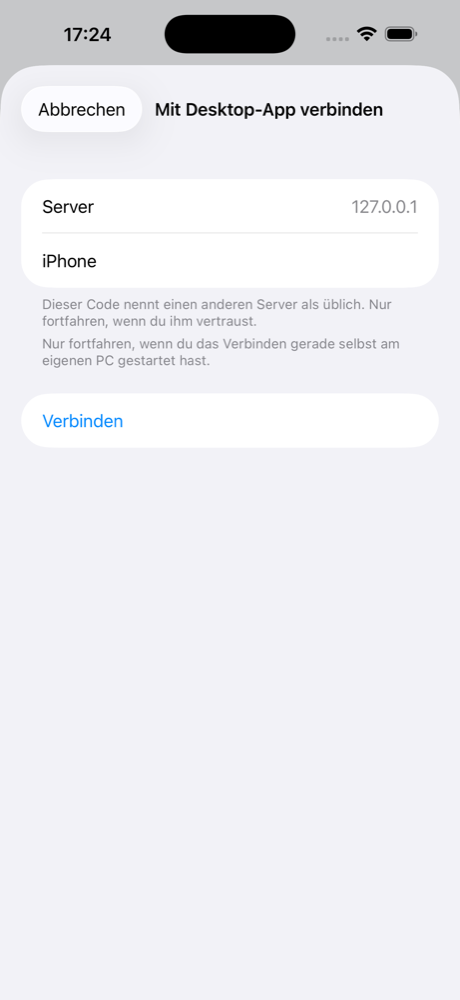
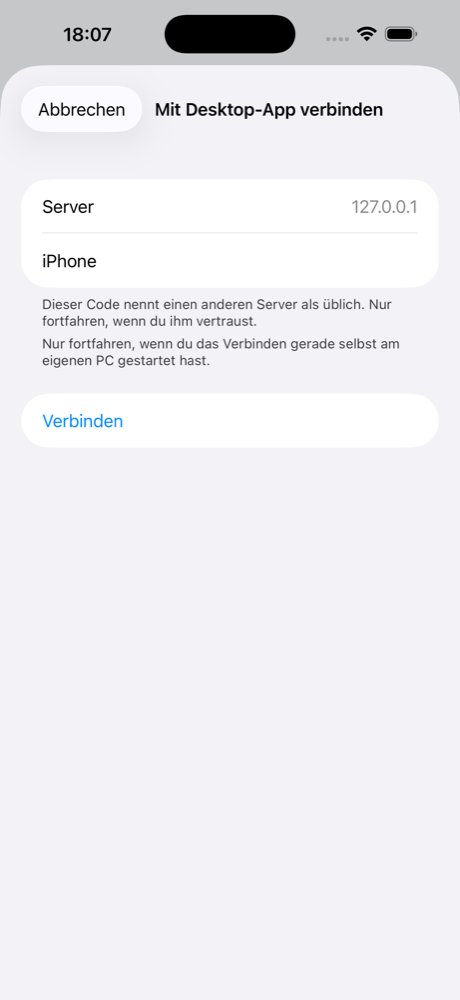
fix(ios): Kopplung: Frist gilt bis zur Übernahme, Umleitung im Hintergrund erkennen
Die Kontofrage läuft jetzt vor der letzten Fristprüfung. Hintergrund-Sessions
fragen bei Umleitungen nicht nach, deshalb verwirft AudioDownloads Ergebnisse von
einer fremden Herkunft. Ablauf der Frist meldet immer abgelaufen.

diff --git a/apps/apple/VoiceCore/Sources/VoiceCore/Pairing.swift b/apps/apple/VoiceCore/Sources/VoiceCore/Pairing.swift
@@ -10,7 +10,7 @@ import CryptoKit
 public enum PairingError: LocalizedError, Equatable {
     case invalidCode, outdatedCode, insecureHub
     case expired, rejected, nonceChanged, commitmentFailed, nameRejected
-    case badResponse, openFailed, keyMismatch, offline, timedOut, declined, tooManyAttempts, serverFailed
+    case badResponse, openFailed, keyMismatch, offline, declined, tooManyAttempts, serverFailed
     case adoptFailed(String)
 
     public var errorDescription: String? {
@@ -27,7 +27,6 @@ public enum PairingError: LocalizedError, Equatable {
         case .openFailed: return "Der Schlüssel vom PC ließ sich nicht öffnen. Am PC dieses Gerät abmelden und neu beginnen."
         case .keyMismatch: return "Der Schlüssel vom PC passt nicht zum Konto. Am PC dieses Gerät abmelden und neu beginnen."
         case .offline: return "Keine Verbindung zum Server. Bitte am PC einen neuen Code anzeigen."
-        case .timedOut: return "Der PC hat nicht rechtzeitig geantwortet. Bitte neu beginnen."
         case .declined: return "Kopplung abgebrochen."
         case .tooManyAttempts: return "Zu viele Versuche aus diesem Netz. Bitte in einer Viertelstunde erneut versuchen."
         case .serverFailed: return "Der Server hat gerade ein Problem. Bitte gleich am PC einen neuen Code anzeigen."
@@ -276,10 +275,12 @@ public struct PairingSession: Sendable {
         self.now = now
     }
 
+    /// `approve` darf nach dem Öffnen noch nachfragen; danach gilt die Frist erneut.
     /// `adopt` speichert das Konto. Erst danach geht die Bestätigung an den Hub.
     /// Rückgabe: ob die Bestätigung sicher angekommen ist. Sonst ist sie unklar, das Konto steht trotzdem.
     @discardableResult
     public func run(stage: @escaping @Sendable (PairingStage) async -> Void,
+                    approve: @Sendable (PairedAccount) async -> Bool = { _ in true },
                     adopt: @Sendable (PairedAccount) async throws -> Void) async throws -> Bool {
         defer { code.q.wipe() }  // bei Erfolg, Fehler und Abbruch
         let phonePublic = [UInt8](phoneKey.publicKey.rawRepresentation)
@@ -290,7 +291,6 @@ public struct PairingSession: Sendable {
 
         var desktopNonce: [UInt8]?
         var revealTries = 0
-        var lostContact = false
         let started = now()
         let deadline = min(expires, started.addingTimeInterval(Self.maxSeconds))
         func wait() async throws {
@@ -306,11 +306,9 @@ public struct PairingSession: Sendable {
             } catch is CancellationError {
                 throw CancellationError()
             } catch {
-                lostContact = true
                 try await wait()
                 continue
             }
-            lostContact = false
             switch answer.0 {
             case 200:
                 guard let json = (try? JSONSerialization.jsonObject(with: answer.1)) as? [String: Any],
@@ -332,7 +330,7 @@ public struct PairingSession: Sendable {
                     guard revealTries > 0 else { throw PairingError.badResponse }
                     guard now() <= deadline else { throw PairingError.expired }
                     await stage(.opening)
-                    return try await finish(json, phonePublic: phonePublic, poll: poll, adopt: adopt)
+                    return try await finish(json, phonePublic: phonePublic, poll: poll, deadline: deadline, approve: approve, adopt: adopt)
                 case "waiting":
                     break
                 default:
@@ -351,7 +349,7 @@ public struct PairingSession: Sendable {
             }
             try await wait()
         }
-        throw lostContact ? PairingError.offline : PairingError.timedOut
+        throw PairingError.expired
     }
 
     private func claim(_ phonePublic: [UInt8]) async throws -> (poll: String, expires: Date) {
@@ -408,7 +406,8 @@ public struct PairingSession: Sendable {
         }
     }
 
-    private func finish(_ json: [String: Any], phonePublic: [UInt8], poll: String,
+    private func finish(_ json: [String: Any], phonePublic: [UInt8], poll: String, deadline: Date,
+                        approve: @Sendable (PairedAccount) async -> Bool,
                         adopt: @Sendable (PairedAccount) async throws -> Void) async throws -> Bool {
         guard let token = json["token"] as? String, !token.isEmpty, let sealed = json["sealed"] as? String,
               let user = json["user"] as? [String: Any], let userId = (user["id"] as? NSNumber)?.int64Value,
@@ -431,7 +430,11 @@ public struct PairingSession: Sendable {
               payload.email.caseInsensitiveCompare(hubEmail) == .orderedSame else { throw PairingError.keyMismatch }
 
         try Task.checkCancellation()
-        try await adopt(PairedAccount(hub: code.hub, email: hubEmail, userId: userId, token: token, key: key, deviceName: name))
+        let account = PairedAccount(hub: code.hub, email: hubEmail, userId: userId, token: token, key: key, deviceName: name)
+        guard await approve(account) else { throw PairingError.declined }
+        try Task.checkCancellation()
+        guard now() <= deadline else { throw PairingError.expired }
+        try await adopt(account)
 
         // Das Konto steht: Die Bestätigung geht auch raus, wenn die Oberfläche inzwischen weg ist.
         let tag = PairingProto.b64u(PairingProto.confirm(s: s, id: code.id))

diff --git a/apps/apple/iPhone/Library/PairingFlow.swift b/apps/apple/iPhone/Library/PairingFlow.swift
@@ -125,10 +125,13 @@ final class PairingFlow: ObservableObject {
             do {
                 let confirmed = try await session.run(stage: { stage in
                     await MainActor.run { self?.show(stage, run) }
+                }, approve: { paired in
+                    await self?.approve(paired, ask: ask, run: run) ?? false
                 }, adopt: { paired in
-                    guard let self else { throw PairingError.declined }
-                    try await self.adopt(paired, ask: ask, run: run)
-                    await MainActor.run { email = paired.email }
+                    try await MainActor.run {
+                        try LibrarySync.shared.adopt(paired)
+                        email = paired.email
+                    }
                 })
                 if self?.generation == run { self?.phase = .done(email: email, confirmed: confirmed) }
             } catch is CancellationError {
@@ -143,15 +146,14 @@ final class PairingFlow: ObservableObject {
         if generation == run { phase = .running(stage) }
     }
 
-    private func adopt(_ paired: PairedAccount, ask: Bool, run: Int) async throws {
-        guard generation == run else { throw CancellationError() }
-        if ask && !autoAccept {
-            phase = .confirmAccount(paired.email)
-            let accepted = await withCheckedContinuation { decision = $0 }
-            guard accepted, generation == run else { throw PairingError.declined }
-            phase = .running(.opening)
-        }
-        try LibrarySync.shared.adopt(paired)
+    private func approve(_ paired: PairedAccount, ask: Bool, run: Int) async -> Bool {
+        guard generation == run else { return false }
+        guard ask && !autoAccept else { return true }
+        phase = .confirmAccount(paired.email)
+        let accepted = await withCheckedContinuation { decision = $0 }
+        guard accepted, generation == run else { return false }
+        phase = .running(.opening)
+        return true
     }
 
     func decide(_ accepted: Bool) {
@@ -251,7 +253,7 @@ private struct PairingSheet: View {
                 VStack(alignment: .leading, spacing: 6) {
                     if code.hub != LibrarySync.defaultHub { Text("Dieser Code nennt einen anderen Server als üblich. Nur fortfahren, wenn du ihm vertraust.") }
                     if viaLink { Text("Nur fortfahren, wenn du das Verbinden gerade selbst am eigenen PC gestartet hast.") }
-                }
+                }.foregroundStyle(.primary.opacity(0.75))
             }
             Section { Button("Verbinden") { flow.begin(code, viaLink: viaLink) } }
         }
@@ -267,7 +269,7 @@ private struct PairingSheet: View {
                     .accessibilityLabel(sas.map(String.init).joined(separator: " "))
                 Text("Steht derselbe Code am PC? Dann dort bestätigen. Wenn nicht, am PC abbrechen.")
                     .multilineTextAlignment(.center).foregroundStyle(.primary.opacity(0.75))
-                ProgressView("Bitte am PC bestätigen")
+                ProgressView { Text("Bitte am PC bestätigen").foregroundStyle(.primary.opacity(0.75)) }
             }.padding(.horizontal, 24).padding(.vertical, 80).frame(maxWidth: .infinity)
         }
     }

diff --git a/apps/apple/iPhone/Library/AudioDownloads.swift b/apps/apple/iPhone/Library/AudioDownloads.swift
@@ -375,17 +375,23 @@ final class AudioDownloads: NSObject, ObservableObject, URLSessionDownloadDelega
     nonisolated func urlSession(_ session: URLSession, downloadTask: URLSessionDownloadTask, didFinishDownloadingTo location: URL) {
         let status = (downloadTask.response as? HTTPURLResponse)?.statusCode ?? 0
         let description = downloadTask.taskDescription, taskID = downloadTask.taskIdentifier
+        let finalURL = downloadTask.response?.url
         // Die Datei verschwindet, sobald diese Methode zurückkehrt: synchron verschieben.
-        MainActor.assumeIsolated { self.received(description, taskID: taskID, status: status, file: location) }
+        MainActor.assumeIsolated { self.received(description, taskID: taskID, status: status, file: location, finalURL: finalURL) }
     }
 
-    private func received(_ description: String?, taskID: Int, status: Int, file: URL) {
+    private func received(_ description: String?, taskID: Int, status: Int, file: URL, finalURL: URL?) {
         guard let parsed = AudioDownload.parseTask(description) else { return }
         let id = parsed.bookId, key = parsed.key
         inFlight[id]?[taskID] = nil
         guard let job = jobs[id], job.phase == .running else { return }
         // Buch inzwischen gelöscht (auch von einem anderen Gerät): Ordner nicht neu anlegen.
         guard library.books.contains(where: { $0.id == id }) else { discard(id); return }
+        // Hintergrund-Sessions folgen Umleitungen, ohne zu fragen: Wenigstens das Ergebnis verwerfen.
+        if let finalURL, let hub = LibrarySync.shared.account.flatMap({ URL(string: $0.url) }), !AudioDownload.sameOrigin(finalURL, hub) {
+            fail(id, "Der Server hat auf eine andere Adresse umgeleitet. Das Laden wurde abgebrochen.")
+            return
+        }
         if status == 401 { fail(id, "Die Anmeldung ist abgelaufen. Bitte unter „Konto & Sync“ neu anmelden."); return }
         guard status == 200 else {
             retry(id, key, "Der Server antwortet mit Fehler \(status). Bereits geladene Teile bleiben erhalten, es geht an derselben Stelle weiter.")
@@ -429,12 +435,6 @@ final class AudioDownloads: NSObject, ObservableObject, URLSessionDownloadDelega
             try? await Task.sleep(nanoseconds: UInt64(1 << attempt) * 1_000_000_000)
             pump(id)
         }
-    }
-
-    /// Wie `NoRedirects`: Das Token geht an keinen anderen Server.
-    nonisolated func urlSession(_ session: URLSession, task: URLSessionTask, willPerformHTTPRedirection response: HTTPURLResponse,
-                                newRequest request: URLRequest, completionHandler: @escaping @Sendable (URLRequest?) -> Void) {
-        completionHandler(nil)
     }
 
     nonisolated func urlSessionDidFinishEvents(forBackgroundURLSession session: URLSession) {

diff --git a/apps/apple/VoiceCore/Tests/VoiceCoreTests/PairingTests.swift b/apps/apple/VoiceCore/Tests/VoiceCoreTests/PairingTests.swift
@@ -141,6 +141,8 @@ private final class Ticker: @unchecked Sendable {
     private let lock = NSLock()
     private var seconds = 0.0
     func next() -> TimeInterval { lock.withLock { seconds += 10; return seconds } }
+    func current() -> TimeInterval { lock.withLock { seconds } }
+    func jump(_ by: TimeInterval) { lock.withLock { seconds += by } }
 }
 
 private actor Recorder {
@@ -399,6 +401,35 @@ final class PairingTests: XCTestCase {
         XCTAssertFalse(confirmed, "nur 200 ist eine Bestätigung")
     }
 
+    func testSlowAccountDecisionPastDeadlineStoresNothing() async throws {
+        let hub = FakeHub()
+        let start = Date()
+        await hub.set { $0.expiresAt = ISO8601DateFormatter().string(from: start.addingTimeInterval(100)) }
+        let clock = Ticker()
+        let recorder = Recorder()
+        let session = PairingSession(code: try await hub.code, name: "iPhone", transport: hub, pause: { _ in },
+                                     now: { start.addingTimeInterval(clock.current()) })
+        do {
+            _ = try await session.run(stage: { _ in }, approve: { _ in clock.jump(200); return true }, adopt: { await recorder.add($0) })
+            XCTFail("hätte scheitern müssen")
+        } catch { XCTAssertEqual(error as? PairingError, .expired) }
+        let adopted = await recorder.adopted
+        XCTAssertTrue(adopted.isEmpty)
+        let confirms = await hub.confirms
+        XCTAssertTrue(confirms.isEmpty)
+    }
+
+    func testDeclinedAccountStoresNothing() async throws {
+        let hub = FakeHub(), recorder = Recorder()
+        let session = PairingSession(code: try await hub.code, name: "iPhone", transport: hub, pause: { _ in })
+        do {
+            _ = try await session.run(stage: { _ in }, approve: { _ in false }, adopt: { await recorder.add($0) })
+            XCTFail("hätte scheitern müssen")
+        } catch { XCTAssertEqual(error as? PairingError, .declined) }
+        let adopted = await recorder.adopted
+        XCTAssertTrue(adopted.isEmpty)
+    }
+
     func testClaimNeedsValidFutureExpiry() async {
         let past = FakeHub()
         await past.set { $0.expiresAt = "2020-01-01T00:00:00Z" }
@@ -447,7 +478,7 @@ final class PairingTests: XCTestCase {
         do {
             _ = try await session.run(stage: { _ in }, adopt: { _ in })
             XCTFail("hätte scheitern müssen")
-        } catch { XCTAssertEqual(error as? PairingError, .offline) }
+        } catch { XCTAssertEqual(error as? PairingError, .expired) }
         let polls = await hub.polls
         XCTAssertLessThan(polls, 20)
     }

diff --git a/apps/apple/VoiceCore/Tests/VoiceCoreTests/AudioDownloadTests.swift b/apps/apple/VoiceCore/Tests/VoiceCoreTests/AudioDownloadTests.swift
@@ -37,6 +37,15 @@ final class AudioDownloadTests: XCTestCase {
         XCTAssertNil(AudioDownload.nextChunk(job().parts[0], .init(complete: true, partialBytes: 0), chunkPlainBytes: chunk))
     }
 
+    func testSameOrigin() throws {
+        let hub = try XCTUnwrap(URL(string: "https://portal.wolffappliedai.de"))
+        let same = try XCTUnwrap(URL(string: "https://PORTAL.wolffappliedai.de:443/api/v1/voice/blobs/a/chunks/0"))
+        XCTAssertTrue(AudioDownload.sameOrigin(same, hub))
+        for other in ["https://evil.example/x", "http://portal.wolffappliedai.de/x", "https://portal.wolffappliedai.de:8443/x"] {
+            XCTAssertFalse(AudioDownload.sameOrigin(try XCTUnwrap(URL(string: other)), hub))
+        }
+    }
+
     func testSpaceProblem() {
         let fmt: (Int64) -> String = { "\($0) B" }
         XCTAssertNil(AudioDownload.spaceProblem(remainingBytes: 100, freeBytes: nil, format: fmt))

diff --git a/apps/apple/VoiceCore/Sources/VoiceCore/AudioDownload.swift b/apps/apple/VoiceCore/Sources/VoiceCore/AudioDownload.swift
@@ -63,6 +63,12 @@ public enum AudioDownload {
         return have < part.chunks ? have : nil
     }
 
+    /// Selbe Herkunft: Schema, Host und Port stimmen überein.
+    public static func sameOrigin(_ a: URL, _ b: URL) -> Bool {
+        func port(_ url: URL) -> Int? { url.port ?? (url.scheme?.lowercased() == "https" ? 443 : url.scheme?.lowercased() == "http" ? 80 : nil) }
+        return a.scheme?.lowercased() == b.scheme?.lowercased() && a.host?.lowercased() == b.host?.lowercased() && port(a) == port(b)
+    }
+
     /// Fehlende Stücke in Hörreihenfolge, ohne angekommene und laufende; höchstens `limit`.
     public static func missingChunks(_ job: Job, states: [PartState], staged: Set<ChunkKey>, inFlight: Set<ChunkKey>,
                                      chunkPlainBytes: Int, limit: Int = window) -> [ChunkKey] {
